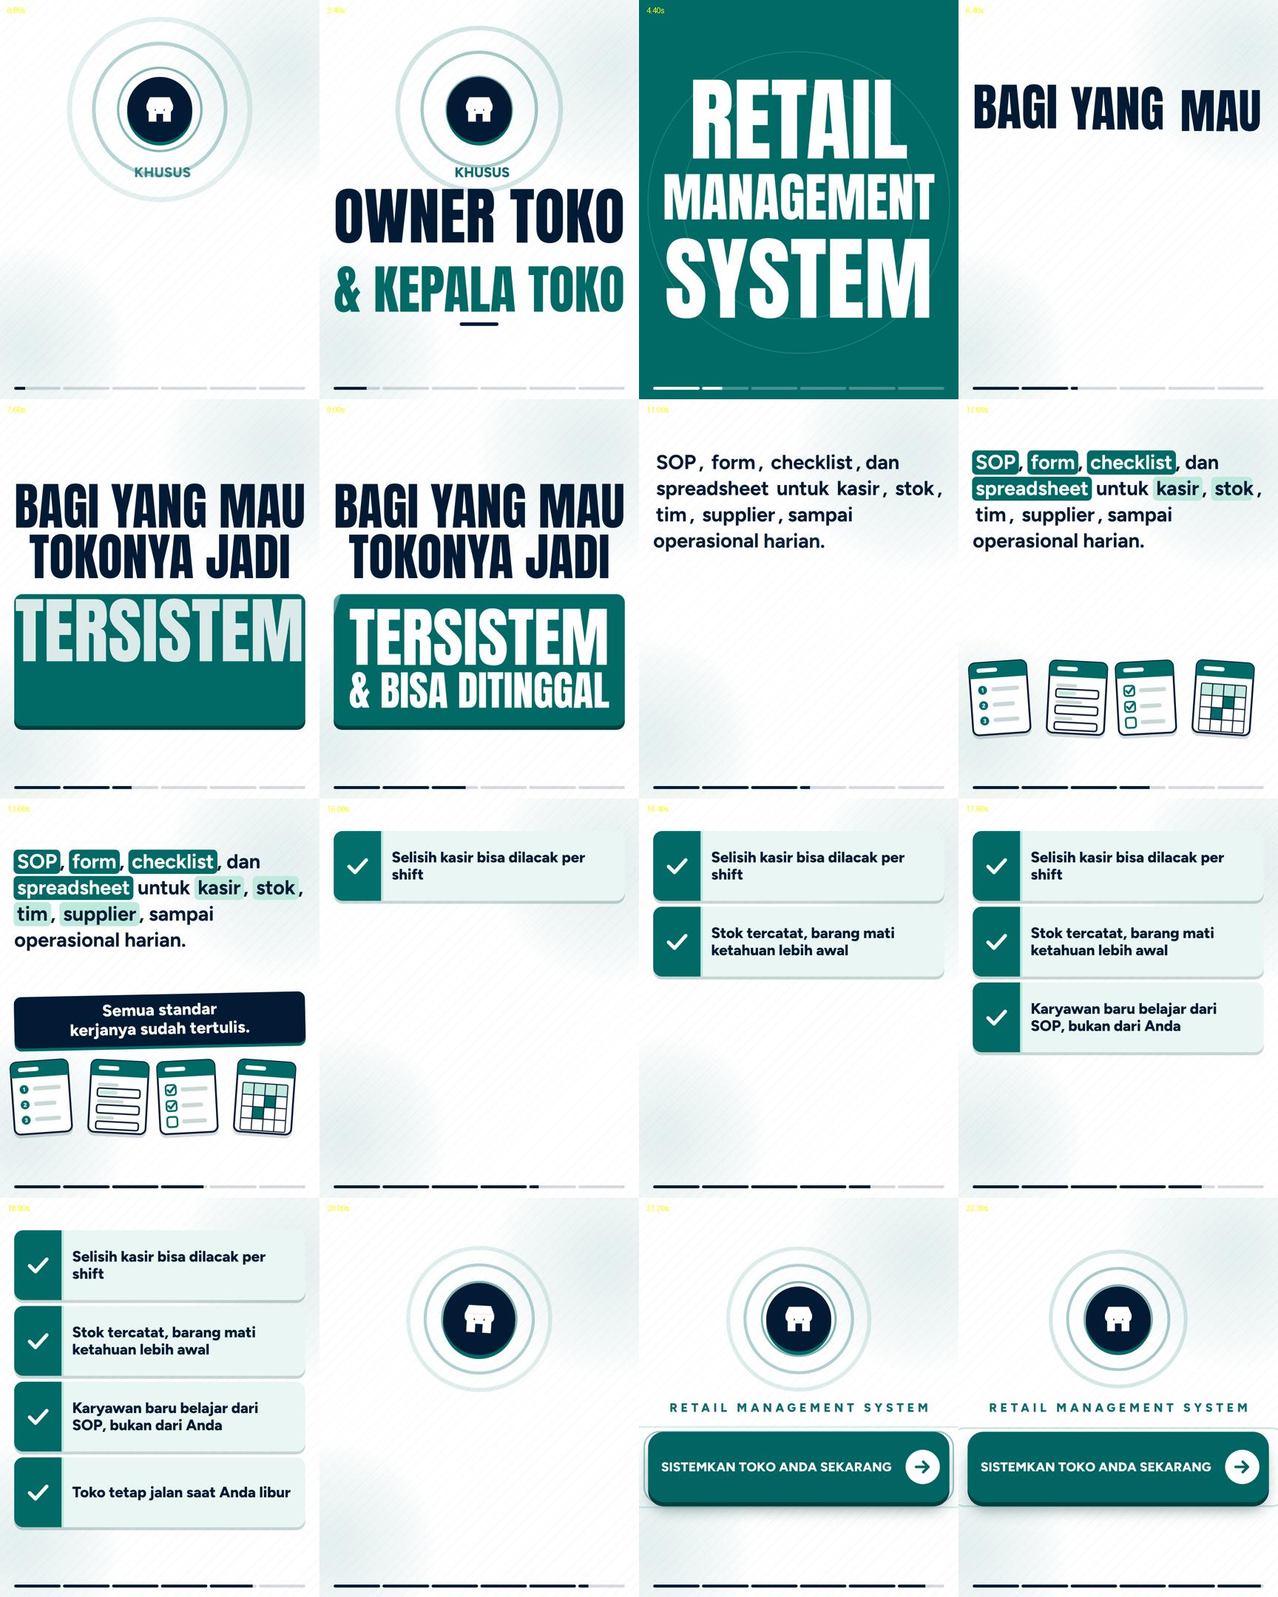
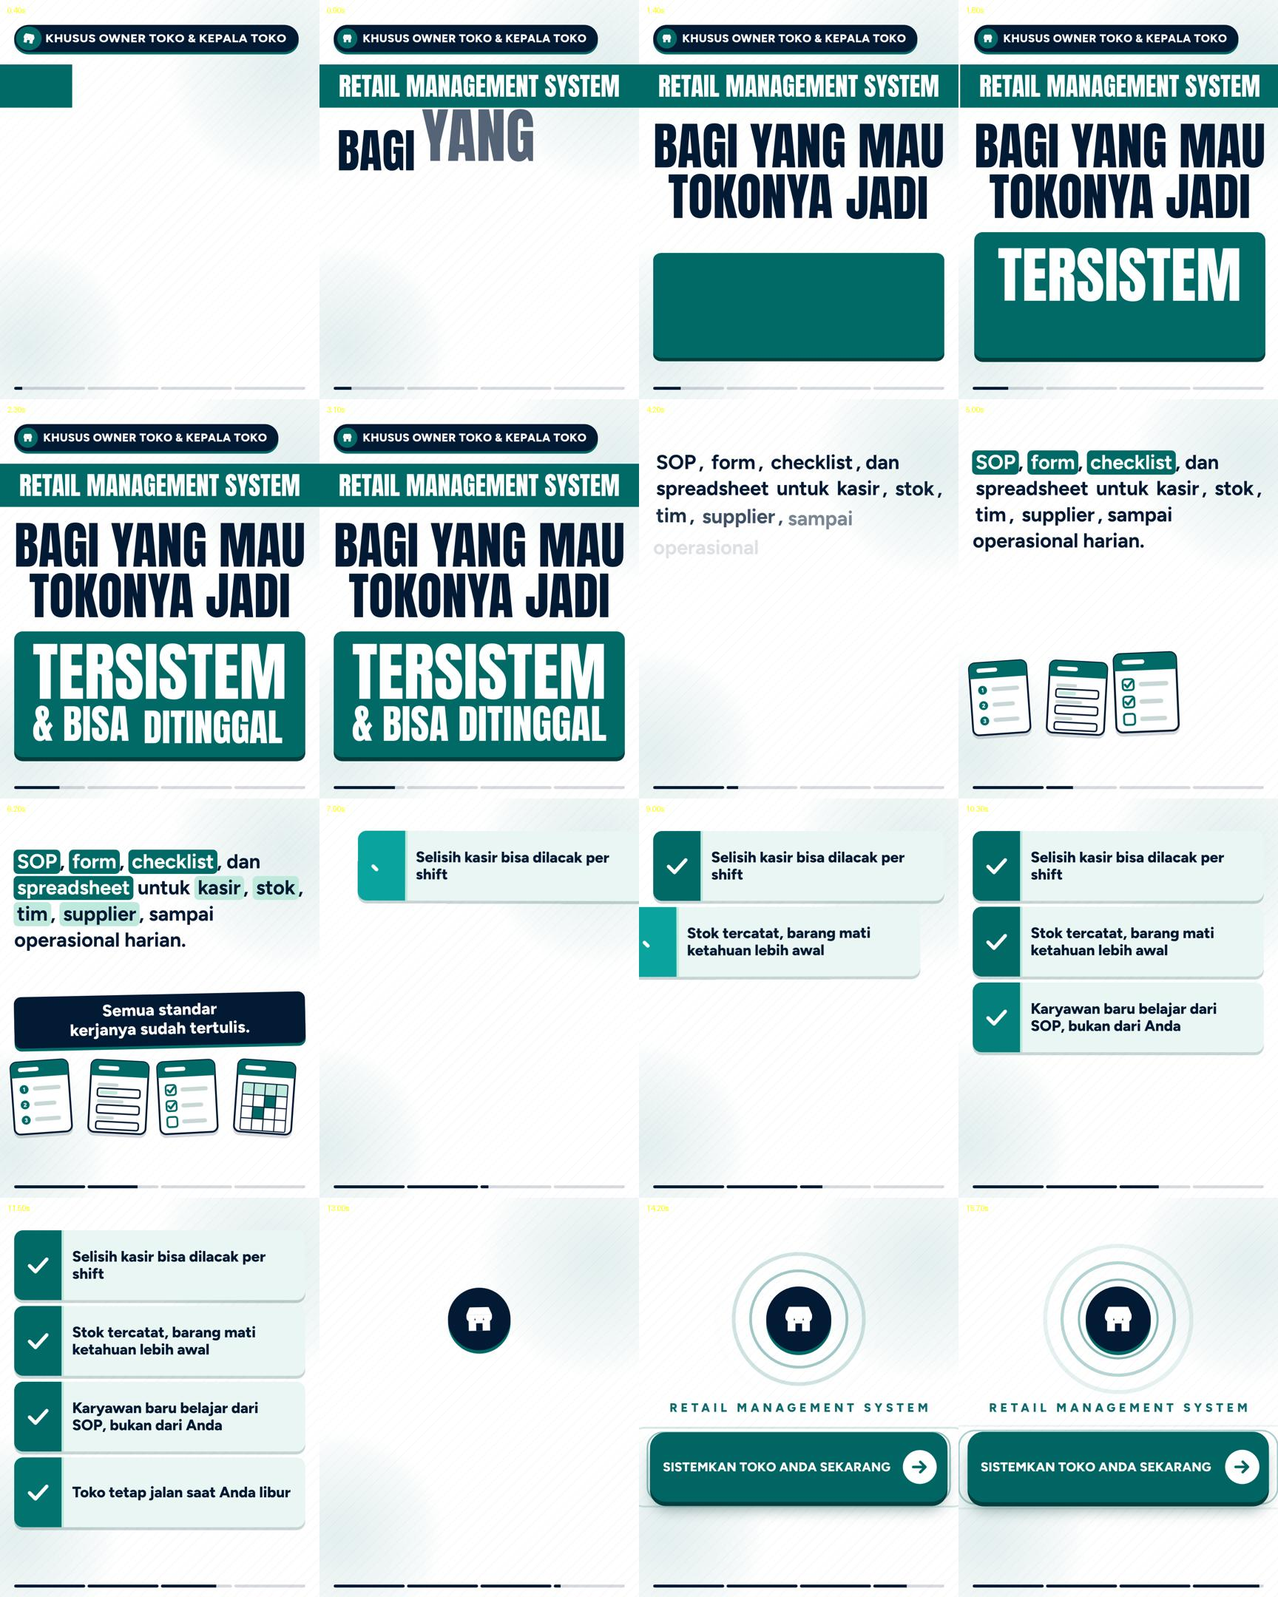
Promo 6B: gabung callout+produk+headline jadi satu layar pembuka (±2,4 dtk), total 15,9 dtk
Claude-Session: https://claude.ai/code/session_01UMN6b96XPFLNVTRhgm7URb

diff --git a/projects/promo-6b-rms/index.html b/projects/promo-6b-rms/index.html
@@ -5,12 +5,12 @@
 <meta name="viewport" content="width=device-width,initial-scale=1">
 <title>Promo 6B Retail Management System</title>
 <!--
-  PROMO 6B · RETAIL MANAGEMENT SYSTEM · "Satu ide satu layar" · Meta Ads (sales) · 4:5 (1080x1350) · 22,5 dtk · tanpa suara
+  PROMO 6B · RETAIL MANAGEMENT SYSTEM · "Satu ide satu layar" · Meta Ads (sales) · 4:5 (1080x1350) · 15,9 dtk · tanpa suara
   Isi, urutan, dan palet sama dengan Promo 6. Tata letak dan gerak dirancang baru (tidak menganimasikan gambar iklan). Naskah: naskah.md
 
   STYLE BRIEF
   Konsep            : tiap tingkat isi mendapat satu layar penuh: callout → produk → headline → sub-headline → manfaat → CTA
-  Sidik jari        : satu layar satu ide · 6 layar + 5 sapuan · objek: tipografi besar, label dokumen, kartu manfaat · pembuka: ikon toko beriak + callout besar · penutup: tombol berdenyut
+  Sidik jari        : satu layar satu ide · 4 layar + 3 sapuan · objek: tipografi besar, ikon dokumen, kartu manfaat · pembuka: callout + produk + headline dalam satu layar (selesai ±2,4 dtk) · penutup: tombol berdenyut
   Palet             : putih bersih · navy #031A34 (judul) · hijau tua #016A67 (bidang, centang, tombol) · mint #BFE9DD (sorot) · tint #EAF6F3 (kartu)
   Font              : Anton (judul, besar) + Figtree (teks, manfaat, tombol)
   Bahasa latar      : putih bergaris tipis diagonal, dua lingkaran hijau pucat melayang; layar produk berlatar hijau penuh
@@ -40,27 +40,19 @@ html,body{width:100%;height:100%;background:#000;overflow:hidden;font-family:"Fi
 .mk{display:block;overflow:hidden;padding:.1em 0 .26em;margin:-.1em 0 -.26em}
 .in{display:inline-block;white-space:nowrap}
 
-/* 1 callout */
-#s1 .rg,#s6 .rg{left:430px;top:260px;width:220px;height:220px;border-radius:50%;border:6px solid var(--grn);opacity:0}
-#ico,#ico2{left:430px;top:260px;width:220px;height:220px;border-radius:50%;background:var(--navy);box-shadow:0 12px 0 var(--grn);display:flex;align-items:center;justify-content:center}
-#ico svg,#ico2 svg{width:120px;height:120px}
-#ku{top:560px;font:800 46px/1 Figtree;letter-spacing:.42em;color:var(--teal);padding-left:.42em}
-#o1{top:626px;color:var(--navy)}
-#o2{top:890px;color:var(--grn)}
-#ul{left:480px;top:1090px;width:120px;height:12px;border-radius:6px;background:var(--navy);transform-origin:50% 50%}
-
-/* 2 produk */
-#s2{background:var(--grn)}
-#s2 .rr{left:140px;top:285px;width:800px;height:800px;border-radius:50%;border:3px solid rgba(255,255,255,.14)}
-#s2 .rr.b{left:40px;top:185px;width:1000px;height:1000px}
-#pr{left:0;width:1080px;top:250px;color:#fff;text-align:center}
-#pr .an{display:block}
+/* 1 pembuka */
+#pl{left:48px;top:84px;height:92px;padding:0 38px 0 12px;border-radius:46px;background:var(--navy);display:flex;align-items:center;gap:18px;color:#fff;font:800 38px/1 Figtree;letter-spacing:.02em;white-space:nowrap;box-shadow:0 8px 0 var(--grn);transform-origin:0 50%}
+#pl .pi{width:68px;height:68px;flex:none;border-radius:50%;background:var(--grn);display:flex;align-items:center;justify-content:center}
+#pl .pi svg{width:38px;height:38px}
+#pb{left:0;top:218px;width:1080px;height:146px;overflow:hidden}
+#pb .bg{position:absolute;inset:0;background:var(--grn);transform-origin:0 50%}
+#pb .tx{position:absolute;inset:0;display:flex;align-items:center;justify-content:center;color:#fff}
 
 /* 3 headline */
-#hd{left:48px;top:276px;width:984px}
+#hd{left:48px;top:408px;width:984px}
 #hd .ln{display:block;text-align:center;color:var(--navy);white-space:nowrap}
 .w{display:inline-block}
-#gb{position:relative;margin-top:40px;background:var(--grn);border-radius:28px;padding:36px 20px 50px;text-align:center;box-shadow:0 14px 0 var(--grn-d);overflow:hidden;transform-origin:50% 100%}
+#gb{position:relative;margin-top:34px;background:var(--grn);border-radius:28px;padding:30px 20px 44px;text-align:center;box-shadow:0 14px 0 var(--grn-d);overflow:hidden;transform-origin:50% 100%}
 #gb .ln{color:#fff}
 #gb .sh{position:absolute;top:-20%;bottom:-20%;left:0;width:170px;background:linear-gradient(100deg,rgba(255,255,255,0),rgba(255,255,255,.5) 50%,rgba(255,255,255,0));transform:skewX(-18deg);opacity:0}
 
@@ -84,7 +76,9 @@ html,body{width:100%;height:100%;background:#000;overflow:hidden;font-family:"Fi
 .cd .ln2{position:absolute;left:160px;top:0;bottom:0;width:8px;background:var(--mint)}
 
 /* 6 CTA */
-#s6 .rg,#ico2{top:300px}
+#s6 .rg{left:430px;top:300px;width:220px;height:220px;border-radius:50%;border:6px solid var(--grn);opacity:0}
+#ico2{left:430px;top:300px;width:220px;height:220px;border-radius:50%;background:var(--navy);box-shadow:0 12px 0 var(--grn);display:flex;align-items:center;justify-content:center}
+#ico2 svg{width:120px;height:120px}
 #tg{top:690px;font:800 40px/1 Figtree;letter-spacing:.3em;color:var(--teal);padding-left:.3em;opacity:0}
 #cta{left:48px;top:796px;width:984px;height:230px;border-radius:52px;background:#016563;color:#fff;display:flex;align-items:center;justify-content:center;gap:34px;
   font:800 62px/1 Figtree;letter-spacing:.005em;text-transform:uppercase;box-shadow:0 14px 0 var(--grn-d),0 36px 50px -16px rgba(1,60,58,.5);opacity:0;transform-origin:50% 60%}
@@ -111,28 +105,10 @@ html,body{width:100%;height:100%;background:#000;overflow:hidden;font-family:"Fi
 <div id="stage">
   <div id="bgd"><i id="c1"></i><i id="c2"></i></div>
 
-  <!-- 1 CALLOUT -->
+  <!-- 1 PEMBUKA: callout + produk + headline dalam satu layar -->
   <div class="sc" id="s1">
-    <div class="abs rg"></div><div class="abs rg"></div><div class="abs rg"></div>
-    <div class="abs" id="ico"><svg viewBox="0 0 32 32"><path d="M4 12l3-7h18l3 7z" fill="#fff"/><path d="M4 12h24v2.5a4 4 0 0 1-8 0 4 4 0 0 1-8 0 4 4 0 0 1-8 0z" fill="#fff"/><path d="M6 17v10h20V17z" fill="#fff"/><rect x="13" y="20" width="6" height="7" fill="#031A34"/></svg></div>
-    <div class="abs ctr" id="ku">KHUSUS</div>
-    <div class="abs ctr an" id="o1"><span class="mk"><span class="in t" id="o1t">Owner Toko</span></span></div>
-    <div class="abs ctr an" id="o2"><span class="mk"><span class="in t" id="o2t">&amp; Kepala Toko</span></span></div>
-    <div class="abs" id="ul"></div>
-  </div>
-
-  <!-- 2 PRODUK -->
-  <div class="sc" id="s2">
-    <div class="abs rr"></div><div class="abs rr b"></div>
-    <div class="abs" id="pr">
-      <span class="mk an"><span class="in t" id="p1">Retail</span></span>
-      <span class="mk an"><span class="in t" id="p2">Management</span></span>
-      <span class="mk an"><span class="in t" id="p3">System</span></span>
-    </div>
-  </div>
-
-  <!-- 3 HEADLINE -->
-  <div class="sc" id="s3">
+    <div class="abs" id="pl"><div class="pi"><svg viewBox="0 0 32 32"><path d="M4 12l3-7h18l3 7z" fill="#fff"/><path d="M4 12h24v2.5a4 4 0 0 1-8 0 4 4 0 0 1-8 0 4 4 0 0 1-8 0z" fill="#fff"/><path d="M6 17v10h20V17z" fill="#fff"/><rect x="13" y="20" width="6" height="7" fill="#016A67"/></svg></div><span class="t" id="plt">KHUSUS OWNER TOKO &amp; KEPALA TOKO</span></div>
+    <div class="abs" id="pb"><div class="bg"></div><div class="tx an"><span class="mk" style="padding:.1em 0 .2em;margin:-.1em 0 -.2em"><span class="in t" id="pbt">Retail Management System</span></span></div></div>
     <div class="abs" id="hd">
       <div class="ln an" id="h1"><span class="t"><span class="w">Bagi</span> <span class="w">yang</span> <span class="w">mau</span></span></div>
       <div class="ln an" id="h2"><span class="t"><span class="w">Tokonya</span> <span class="w">jadi</span></span></div>
@@ -180,7 +156,7 @@ html,body{width:100%;height:100%;background:#000;overflow:hidden;font-family:"Fi
     <div class="abs" id="cta"><span class="t" id="ctat">Sistemkan toko Anda sekarang</span><div class="ar"><svg viewBox="0 0 40 40"><path d="M6 20 H31 M21 9 L32 20 L21 31"/></svg></div></div>
   </div>
 
-  <div class="abs" id="pg"><i><b></b></i><i><b></b></i><i><b></b></i><i><b></b></i><i><b></b></i><i><b></b></i></div>
+  <div class="abs" id="pg"><i><b></b></i><i><b></b></i><i><b></b></i><i><b></b></i></div>
   <div id="wipe"></div>
 </div>
 <div id="ui"><button id="btn-play">Pause</button><button id="btn-restart">Restart</button>
@@ -196,13 +172,11 @@ await document.fonts.ready;
 
 /* ============ PAS UKURAN TEKS ============ */
 const fitW=(el,target,max=1e9,min=10)=>{el.style.fontSize='100px';const t=$('.t',el)||el;const w=t.offsetWidth;const s=Math.max(min,Math.min(max,100*target/w));el.style.fontSize=s.toFixed(1)+'px';return s;};
-// layar 1
-fitW($('#o1'),984,250);fitW($('#o2'),984,250);{const a=parseFloat($('#o1').style.fontSize),b=parseFloat($('#o2').style.fontSize);}
-// layar 2: tiga baris, lebar 920, tinggi dibatasi
-['#p1','#p2','#p3'].forEach(s=>{const el=$(s).closest('.an');fitW(el,920,310);});
-// layar 3
-{const s=Math.min(fitW($('#h1'),984,200),fitW($('#h2'),984,200));$('#h1').style.fontSize=s+'px';$('#h2').style.fontSize=s+'px';
- fitW($('#g1'),880,300);fitW($('#g2'),880,190);}
+// pembuka
+{const pl=$('#pl');let fs=38;pl.style.fontSize=fs+'px';while(pl.offsetWidth>984&&fs>24){fs--;pl.style.fontSize=fs+'px';}
+ fitW($('#pb .tx'),950,110);
+ const q=Math.min(fitW($('#h1'),984,178),fitW($('#h2'),984,178));$('#h1').style.fontSize=q+'px';$('#h2').style.fontSize=q+'px';
+ fitW($('#g1'),860,300);fitW($('#g2'),860,190);}
 // layar 6
 {const c=$('#cta'),ct=$('#ctat');let fs=62;c.style.fontSize=fs+'px';while(ct.offsetWidth>760&&fs>30){fs--;c.style.fontSize=fs+'px';}}
 
@@ -211,63 +185,52 @@ const PARA=[['SOP',',','kd'],['form',',','kd'],['checklist',',','kd'],['dan','',
 {const pp=$('#pp');pp.innerHTML=PARA.map(([w,p,c])=>`<span class="pw ${c}">${c?`<span class="kk"><b></b><span>${w}</span></span>`:w}${p}</span>`).join(' ');}
 
 /* ============ TIMELINE ============ */
-const DURATION=22.5;
+const DURATION=15.9;
 const tl=gsap.timeline({paused:true});
-const TS=[0,3.4,5.7,10.2,13.9,19.3,DURATION];           // batas layar
-const SC=['#s1','#s2','#s3','#s4','#s5','#s6'];
+const TS=[0,3.6,7.3,12.7,DURATION];           // batas layar
+const SC=['#s1','#s4','#s5','#s6'];
 SC.forEach((s,i)=>{gsap.set(s,{opacity:i===0?1:0});if(i>0){tl.set(s,{opacity:1},TS[i]);tl.set(SC[i-1],{opacity:0},TS[i]);}});
 // sapuan antar layar
 gsap.set('#wipe',{x:-1800});
-for(let i=1;i<6;i++){const T=TS[i];
+for(let i=1;i<4;i++){const T=TS[i];
   tl.fromTo('#wipe',{x:-1800},{x:-330,duration:.3,ease:'power3.in',immediateRender:false},T-.3);
   tl.to('#wipe',{x:1500,duration:.34,ease:'power3.out'},T);}
 // progres
 $$('#pg i b').forEach((b,i)=>tl.fromTo(b,{scaleX:0},{scaleX:1,duration:TS[i+1]-TS[i],ease:'none',immediateRender:false},TS[i]));
-tl.set('#pg',{'--pg':'#ffffff','--pt':'rgba(255,255,255,.28)'},TS[1]);
-tl.set('#pg',{'--pg':'#031A34','--pt':'rgba(3,26,52,.16)'},TS[2]);
-
 const slam=(el,at,{dy=-70,from=1.55,dur=.36}={})=>{gsap.set(el,{opacity:0,y:dy,scale:from,transformOrigin:'50% 100%'});tl.to(el,{opacity:1,y:0,scale:1,duration:dur,ease:'back.out(2.2)'},at);};
 const rise=(el,at,dur=.55)=>{gsap.set(el,{yPercent:150});tl.to(el,{yPercent:0,duration:dur,ease:'power4.out'},at);};
 const shake=(el,at,a=7)=>tl.fromTo(el,{x:0},{x:a,duration:.045,yoyo:true,repeat:3,ease:'sine.inOut',immediateRender:false},at);
 
-/* --- 1. callout 0–3.4 --- */
-gsap.set('#ico',{scale:0,rotation:-30});tl.to('#ico',{scale:1,rotation:0,duration:.55,ease:'back.out(2.4)'},.15);
-gsap.set('#ku',{opacity:0,letterSpacing:'.9em'});tl.to('#ku',{opacity:1,letterSpacing:'.42em',duration:.7,ease:'power3.out'},.55);
-rise('#o1t',.85,.55);rise('#o2t',1.2,.55);
-gsap.set('#ul',{scaleX:0});tl.to('#ul',{scaleX:1,duration:.4,ease:'power3.out'},1.8);
-tl.to('#ul',{width:984,left:48,duration:.5,ease:'power3.inOut'},2.3);
-shake('#s1',1.35,4);
-
-/* --- 2. produk 3.4–5.7 --- */
-rise('#p1',3.65,.5);rise('#p2',3.85,.5);rise('#p3',4.05,.5);
-gsap.set('#s2 .rr',{scale:.8,opacity:0});tl.to('#s2 .rr',{scale:1,opacity:1,duration:.9,ease:'power3.out',stagger:.15},3.55);
-
-/* --- 3. headline 5.7–10.2 --- */
-const bw=$$('#h1 .w'),tw=$$('#h2 .w');
-bw.forEach((w,i)=>slam(w,5.95+i*.15));tw.forEach((w,i)=>slam(w,6.55+i*.15));
-gsap.set('#gb',{scaleY:0,opacity:1});tl.to('#gb',{scaleY:1,duration:.38,ease:'back.out(1.6)'},7.15);
-slam('#g1 .w',7.5,{from:1.8,dur:.42});shake('#s3',7.75,8);
-$$('#g2 .w').forEach((w,i)=>slam(w,8.1+i*.17));
-tl.fromTo('#gb .sh',{x:-220,opacity:1},{x:1250,duration:.8,ease:'power2.inOut',immediateRender:false},8.95);
-tl.fromTo('#gb',{scale:1},{scale:1.025,duration:.14,yoyo:true,repeat:1,ease:'sine.inOut',immediateRender:false},9.1);
+/* --- 1. pembuka 0–3.6: semua masuk dalam ±2,4 dtk, lalu tahan --- */
+gsap.set('#pl',{scaleX:0,opacity:0});tl.to('#pl',{scaleX:1,opacity:1,duration:.45,ease:'back.out(1.7)'},.08);
+gsap.set('#pl .pi',{scale:0,rotation:-60});tl.to('#pl .pi',{scale:1,rotation:0,duration:.45,ease:'back.out(2.6)'},.2);
+gsap.set('#pb .bg',{scaleX:0});tl.to('#pb .bg',{scaleX:1,duration:.4,ease:'power4.out'},.38);
+rise('#pbt',.5,.45);
+$$('#h1 .w').forEach((w,i)=>slam(w,.75+i*.1,{dy:-60,dur:.3}));
+$$('#h2 .w').forEach((w,i)=>slam(w,1.05+i*.1,{dy:-60,dur:.3}));
+gsap.set('#gb',{scaleY:0,opacity:1});tl.to('#gb',{scaleY:1,duration:.3,ease:'back.out(1.6)'},1.32);
+slam('#g1 .w',1.52,{from:1.8,dur:.34});shake('#s1',1.68,7);
+$$('#g2 .w').forEach((w,i)=>slam(w,1.85+i*.12,{dur:.3}));
+tl.fromTo('#gb .sh',{x:-220,opacity:1},{x:1250,duration:.7,ease:'power2.inOut',immediateRender:false},2.45);
+tl.fromTo('#gb',{scale:1},{scale:1.025,duration:.14,yoyo:true,repeat:1,ease:'sine.inOut',immediateRender:false},2.6);
 
 /* --- 4. sub-headline 10.2–13.9 --- */
-$$('#pp .pw').forEach((e,i)=>tl.fromTo(e,{opacity:0,y:26},{opacity:1,y:0,duration:.3,ease:'power3.out',immediateRender:false},10.35+i*.04));
+$$('#pp .pw').forEach((e,i)=>tl.fromTo(e,{opacity:0,y:26},{opacity:1,y:0,duration:.3,ease:'power3.out',immediateRender:false},3.75+i*.04));
 gsap.set($$('#pp .kk b'),{scaleX:0});
 const KD=$$('#pp .kd'),AC=$$('#pp .ac');
 const IC=['#i1','#i2','#i3','#i4'],ROT=[-4,3,-3,4];
-KD.forEach((k,i)=>{const t0=11.0+i*.3;
+KD.forEach((k,i)=>{const t0=4.2+i*.28;
   tl.to($('b',k),{scaleX:1,duration:.3,ease:'power3.out'},t0);
   tl.to($('.kk span',k),{color:'#ffffff',duration:.2},t0+.06);
   gsap.set(IC[i],{opacity:0,scale:.4,y:50,rotation:ROT[i]*2.5,transformOrigin:'50% 100%'});
   tl.to(IC[i],{opacity:1,scale:1,y:0,rotation:ROT[i],duration:.5,ease:'back.out(2.2)'},t0);});
-AC.forEach((k,j)=>tl.to($('b',k),{scaleX:1,duration:.28,ease:'power3.out'},12.3+j*.18));
+AC.forEach((k,j)=>tl.to($('b',k),{scaleX:1,duration:.28,ease:'power3.out'},5.25+j*.15));
 gsap.set('#sf',{opacity:0,scale:2.2,rotation:5});
-tl.to('#sf',{opacity:1,scale:1,rotation:-1.2,duration:.3,ease:'power3.in'},13.0);
-shake('#s4',13.3,6);
+tl.to('#sf',{opacity:1,scale:1,rotation:-1.2,duration:.3,ease:'power3.in'},5.9);
+shake('#s4',6.2,6);
 
 /* --- 5. manfaat 13.9–19.3 --- */
-const MS=['#m1','#m2','#m3','#m4'],MT=[14.25,15.45,16.65,17.85];
+const MS=['#m1','#m2','#m3','#m4'],MT=[7.5,8.6,9.7,10.8];
 MS.forEach((m,i)=>{const dir=i%2?1:-1;
   gsap.set(m,{x:dir*1100,opacity:0,rotation:dir*2});
   tl.to(m,{x:0,opacity:1,rotation:0,duration:.6,ease:'back.out(1.5)'},MT[i]);
@@ -276,21 +239,19 @@ MS.forEach((m,i)=>{const dir=i%2?1:-1;
   tl.fromTo($('.ck',$(m)),{backgroundColor:'#0BA39E'},{backgroundColor:'#016A67',duration:.5,immediateRender:false},MT[i]+.4);});
 
 /* --- 6. CTA 19.3–22.5 --- */
-gsap.set('#ico2',{scale:0,rotation:-30});tl.to('#ico2',{scale:1,rotation:0,duration:.55,ease:'back.out(2.4)'},19.6);
-gsap.set('#tg',{y:24});tl.to('#tg',{opacity:1,y:0,duration:.5,ease:'power3.out'},20.0);
-gsap.set('#cta',{y:300,opacity:0});tl.to('#cta',{y:0,opacity:1,duration:.6,ease:'back.out(1.8)'},20.25);
-tl.to('#cta',{scale:1.035,duration:.26,yoyo:true,repeat:4,ease:'sine.inOut'},20.95);
-tl.to('#cta .ar',{x:12,duration:.26,yoyo:true,repeat:4,ease:'sine.inOut'},20.95);
+gsap.set('#ico2',{scale:0,rotation:-30});tl.to('#ico2',{scale:1,rotation:0,duration:.55,ease:'back.out(2.4)'},12.85);
+gsap.set('#tg',{y:24});tl.to('#tg',{opacity:1,y:0,duration:.5,ease:'power3.out'},13.1);
+gsap.set('#cta',{y:300,opacity:0});tl.to('#cta',{y:0,opacity:1,duration:.6,ease:'back.out(1.8)'},13.3);
+tl.to('#cta',{scale:1.035,duration:.26,yoyo:true,repeat:4,ease:'sine.inOut'},14.05);
+tl.to('#cta .ar',{x:12,duration:.26,yoyo:true,repeat:4,ease:'sine.inOut'},14.05);
 tl.to({},{duration:.01},DURATION);
 
 /* ============ GERAK BERKELANJUTAN ============ */
 const render=t=>{
   gsap.set('#c1',{x:Math.sin(t*.45)*42,y:Math.cos(t*.38)*30});
   gsap.set('#c2',{x:Math.cos(t*.4)*36,y:Math.sin(t*.33)*28});
-  $$('#s1 .rg').forEach((r,k)=>{const ph=(((t-.55)*.55)+k/3)%1;const on=t>.55&&t<3.4;gsap.set(r,{scale:on?1+ph*2.3:1,opacity:on?(1-ph)*.55:0});});
-  $$('#s2 .rr').forEach((r,k)=>{if(t>=3.4)gsap.set(r,{scale:1+.025*Math.sin(t*1.3+k*1.7)});});
-  $$('#s6 .rg').forEach((r,k)=>{const ph=(((t-19.8)*.55)+k/3)%1;const on=t>19.8&&t>=19.3;gsap.set(r,{scale:on?1+ph*1.6:1,opacity:on?(1-ph)*.55:0});});
-  $$('#s6 .pr').forEach((r,k)=>{const ph=(((t-20.9)*.8)+k/2)%1;const on=t>20.9&&t>=19.3;gsap.set(r,{scale:on?1+ph*.28:1,opacity:on?(1-ph)*.5:0});});
+  $$('#s6 .rg').forEach((r,k)=>{const ph=(((t-13.0)*.55)+k/3)%1;const on=t>13.0&&t>=12.7;gsap.set(r,{scale:on?1+ph*1.6:1,opacity:on?(1-ph)*.55:0});});
+  $$('#s6 .pr').forEach((r,k)=>{const ph=(((t-14.0)*.8)+k/2)%1;const on=t>14.0&&t>=12.7;gsap.set(r,{scale:on?1+ph*.28:1,opacity:on?(1-ph)*.5:0});});
 };
 
 /* ============ PEREKAT ============ */

diff --git a/projects/promo-6b-rms/naskah.md b/projects/promo-6b-rms/naskah.md
@@ -1,8 +1,8 @@
 # Promo 6B — Retail Management System (Meta Ads, sales)
 
-4:5 (1080×1350) · 22,5 dtk · tanpa suara · tanpa logo/nama brand pembuat · CTA "SISTEMKAN TOKO ANDA SEKARANG →"
+4:5 (1080×1350) · **15,9 dtk** · tanpa suara · tanpa logo/nama brand pembuat · CTA "SISTEMKAN TOKO ANDA SEKARANG →"
 **Isi, urutan, dan palet sama persis dengan Promo 6.** Yang berbeda hanya tata letak dan gerak.
-Tidak menganimasikan gambar iklan. Tiap tingkat isi mendapat satu layar penuh.
+Tidak menganimasikan gambar iklan. Revisi user: callout, nama produk, dan headline digabung jadi satu layar pembuka yang selesai masuk dalam ±2,4 dtk, supaya penonton tidak keburu skip.
 (Versi kalender yang sebelumnya disimpan sebagai arsip di `projects/promo-6k-kalender-rms/`.)
 
 ## Urutan isi (sama dengan Promo 6)
@@ -17,19 +17,17 @@ Tidak menganimasikan gambar iklan. Tiap tingkat isi mendapat satu layar penuh.
 
 | Waktu | Layar | Visual |
 |---|---|---|
-| 0:00–0:03,4 | 1 Callout | Ikon toko navy meletup, cincin riak menyebar. "KHUSUS" membuka renggang. "OWNER TOKO" (navy) dan "& KEPALA TOKO" (hijau) naik dari balik topeng. Garis navy melebar |
-| 0:03,4–0:05,7 | 2 Produk | Bidang hijau penuh. RETAIL / MANAGEMENT / SYSTEM, tiga baris huruf putih raksasa naik bergantian. Cincin tipis berdenyut |
-| 0:05,7–0:10,2 | 3 Headline | Kata per kata menghantam: BAGI YANG MAU / TOKONYA JADI. Blok hijau naik. TERSISTEM menghantam, layar bergetar, lalu "& BISA DITINGGAL" kata demi kata. Kilap lewat (frame thumbnail: 0:09,0) |
-| 0:10,2–0:13,9 | 4 Sub-headline | Kalimat muncul kata demi kata. SOP, form, checklist, spreadsheet disorot pil hijau, tiap kata menyalakan ikon dokumennya (daftar bernomor, formulir, daftar centang, tabel). Kasir, stok, tim, supplier disorot mint. Cap "Semua standar kerjanya sudah tertulis." menghantam |
-| 0:13,9–0:19,3 | 5 Manfaat | Empat kartu lebar masuk bergantian dari kiri dan kanan. Tiap kartu: papan hijau, centang tergambar, teks manfaat |
-| 0:19,3–0:22,5 | 6 CTA | Ikon toko beriak lagi (menutup pola dari layar 1), nama produk, tombol hijau besar naik, berdenyut, panah bergeser |
+| 0:00,1–0:02,4 | 1 Pembuka (callout + produk + headline) | Pil navy "KHUSUS OWNER TOKO & KEPALA TOKO" dengan ikon toko meletup. Pita hijau "RETAIL MANAGEMENT SYSTEM" menyapu. "BAGI YANG MAU / TOKONYA JADI" menghantam kata per kata. Blok hijau naik, "TERSISTEM" menghantam, layar bergetar, "& BISA DITINGGAL" menyusul. Semua selesai masuk ±2,4 dtk, lalu kilap lewat dan layar ditahan sampai 0:03,3 untuk dibaca (frame thumbnail: 0:02,6) |
+| 0:03,6–0:07,3 | 2 Sub-headline | Kalimat muncul kata demi kata. SOP, form, checklist, spreadsheet disorot pil hijau, tiap kata menyalakan ikon dokumennya. Kasir, stok, tim, supplier disorot mint. Cap "Semua standar kerjanya sudah tertulis." menghantam (0:05,9) |
+| 0:07,3–0:12,7 | 3 Manfaat | Empat kartu lebar masuk bergantian dari kiri dan kanan. Tiap kartu: papan hijau, centang tergambar, teks manfaat |
+| 0:12,7–0:15,9 | 4 CTA | Ikon toko beriak, nama produk, tombol hijau besar naik, berdenyut, panah bergeser |
 
-Antar-layar: sapuan bidang navy bermata mint dan hijau. Bilah progres enam segmen di bawah.
+Antar-layar: sapuan bidang navy bermata mint dan hijau. Bilah progres empat segmen di bawah.
 
 ## Style brief
 - Perasaan: lugas, tegas, rapi.
 - Konsep: satu layar satu ide, mengikuti urutan isi.
-- Sidik jari: `satu layar satu ide · 6 layar + 5 sapuan · objek: tipografi besar, ikon dokumen, kartu manfaat · pembuka: ikon toko beriak + callout besar · penutup: tombol berdenyut`
+- Sidik jari: `satu layar satu ide · 4 layar + 3 sapuan · objek: tipografi besar, ikon dokumen, kartu manfaat · pembuka: callout + produk + headline dalam satu layar · penutup: tombol berdenyut`
 - Palet (sama dengan Promo 6): putih · navy #031A34 · hijau tua #016A67 · mint #BFE9DD (sorot) · tint #EAF6F3 (kartu)
 - Font: Anton (judul) + Figtree (teks)
 - Tanda tangan gerak: sapuan antar-layar + kata menghantam masuk
